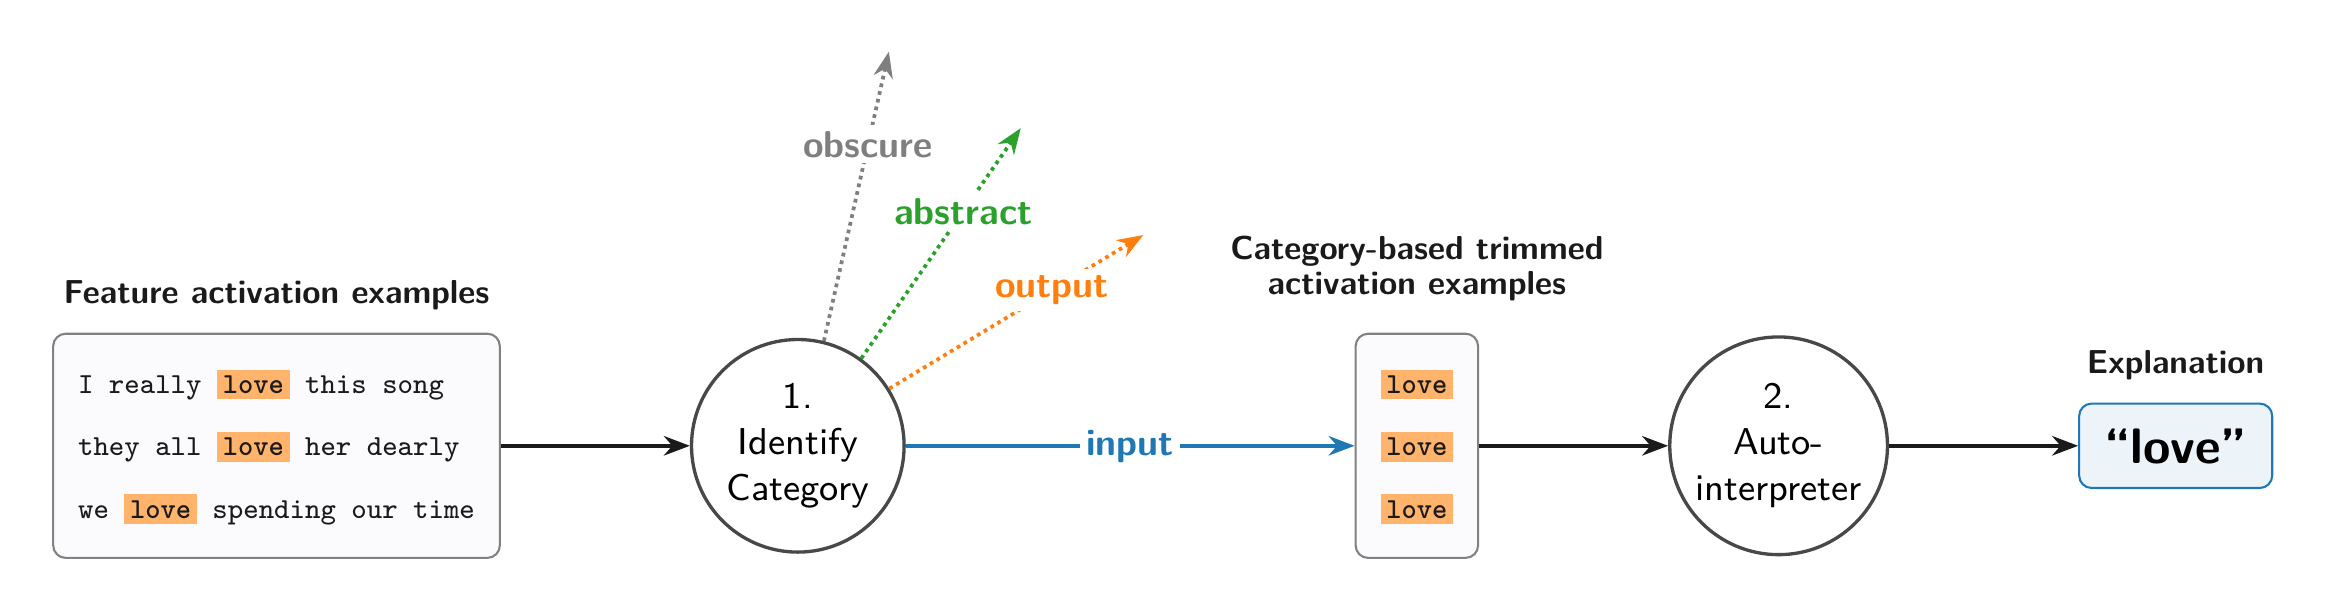
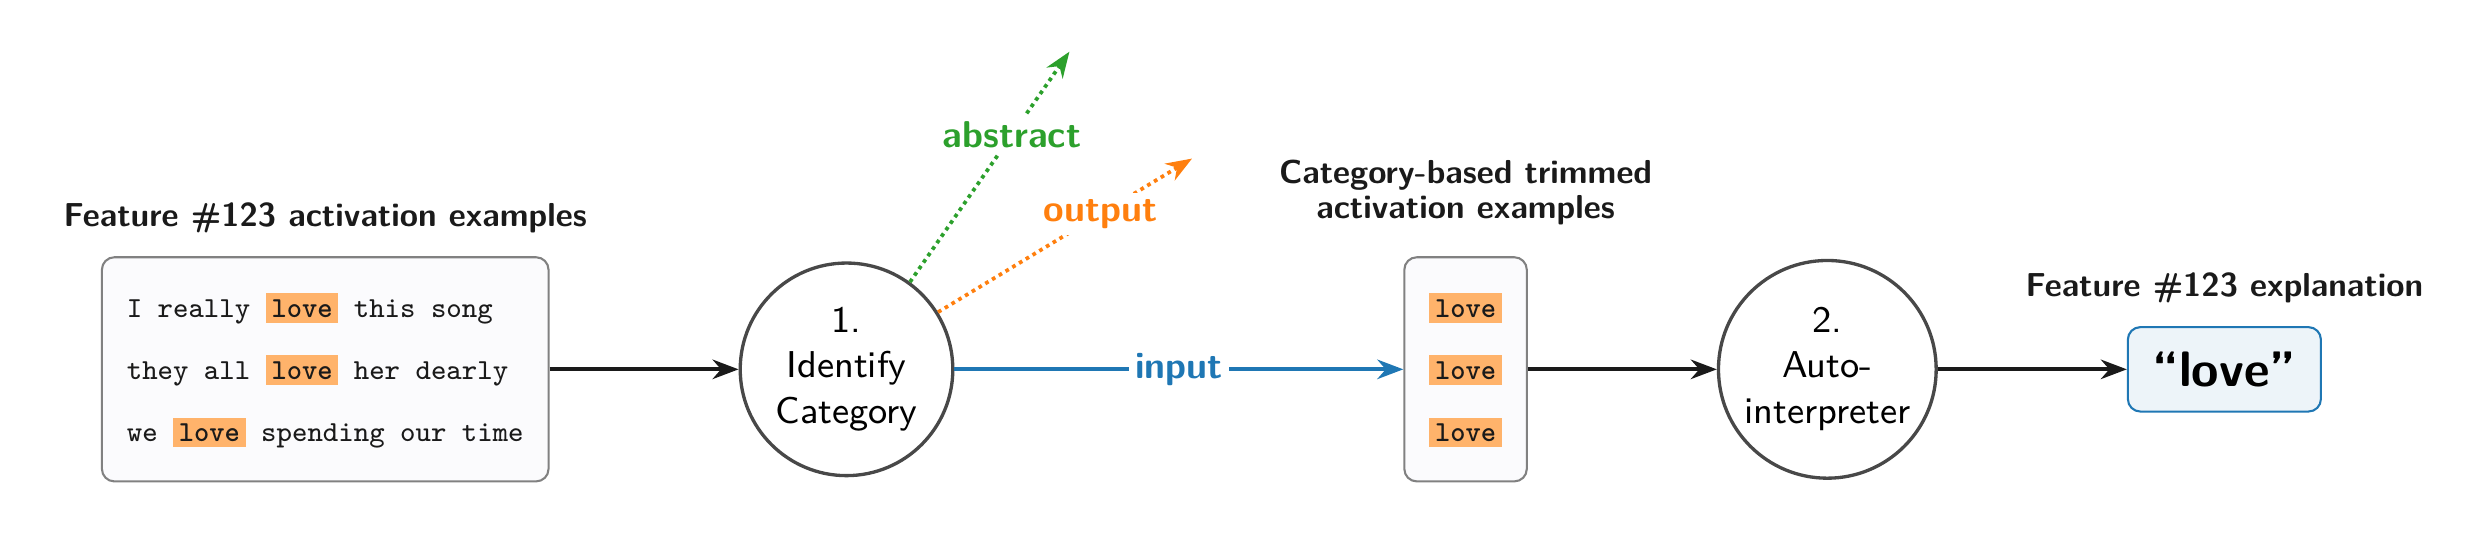
feat: update figure

diff --git a/figures/protocol_overview.tex b/figures/protocol_overview.tex
@@ -40,7 +40,7 @@
   \ex{they all \tok{love} her dearly}\\[3pt]
   \ex{we \tok{love} spending our time}\\
   \end{tabular}};
-\node[title, above=2pt of feat] {Feature activation examples};
+\node[title, above=2pt of feat] {Feature \#123 activation examples};
 
 % ---------------- 1. Identify Category ----------------
 \node[fn, right=16mm of feat] (router) {1.\\Identify\\Category};
@@ -50,7 +50,7 @@
 % input is solid and continues the pipeline; the others are dotted alternatives.
 \draw[darr, outputc]   (router.32) -- ++(2.15,1.30) node[route, text=outputc,   pos=0.64]{output};
 \draw[darr, abstractc] (router.54) -- ++(1.35,1.95) node[route, text=abstractc, pos=0.64]{abstract};
-\draw[darr, obscurec]  (router.76) -- ++(0.55,2.45) node[route, text=obscurec,  pos=0.68]{obscure};
+%\draw[darr, obscurec]  (router.76) -- ++(0.55,2.45) node[route, text=obscurec,  pos=0.68]{obscure};
 
 % ---------------- Trimmed examples (input route) ----------------
 \node[box, right=38mm of router] (trim) {%
@@ -68,7 +68,7 @@
 
 % ---------------- Explanation (output) ----------------
 \node[box, draw=inputc, fill=inputc!8, right=16mm of interp] (expl) {\large\bfseries ``love''};
-\node[title, above=2pt of expl] {Explanation};
+\node[title, above=2pt of expl] {Feature \#123 explanation};
 \draw[arr] (interp.east) -- (expl.west);
 
 \end{tikzpicture}